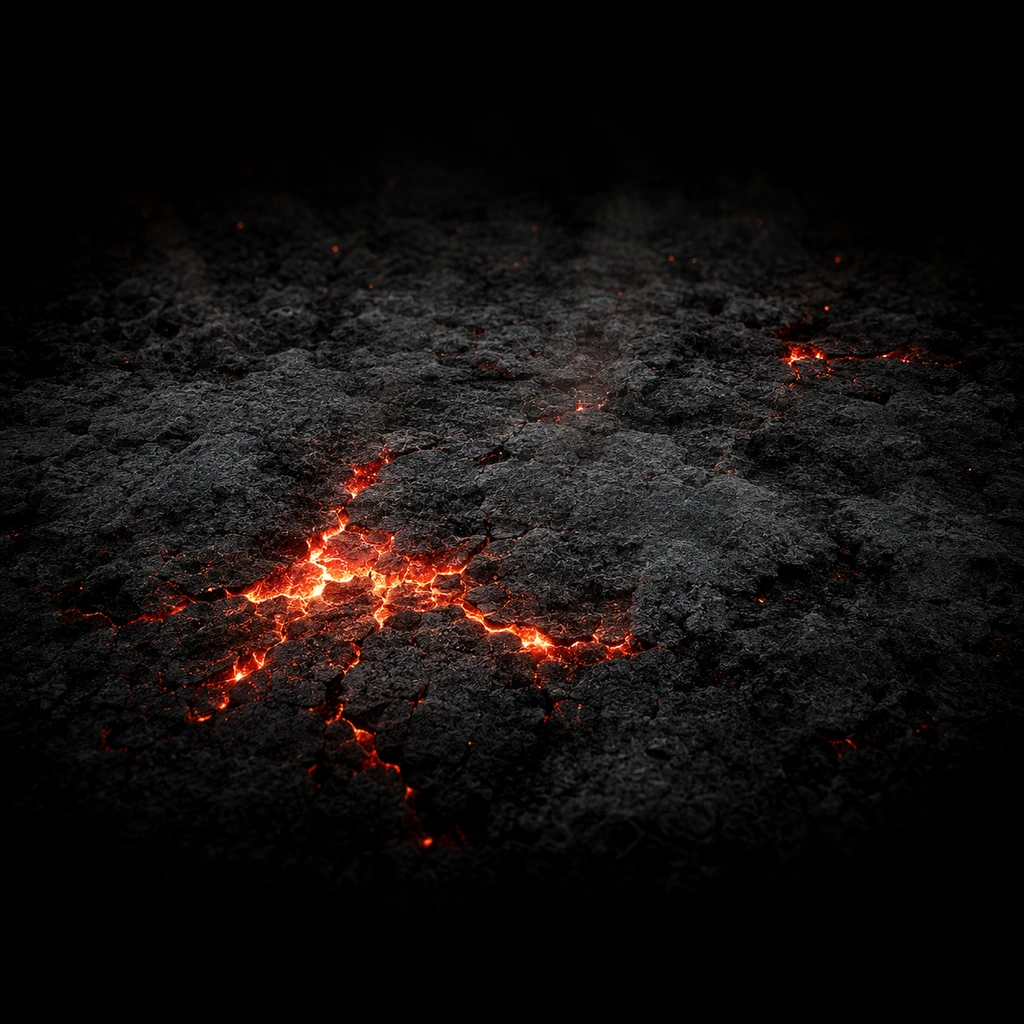
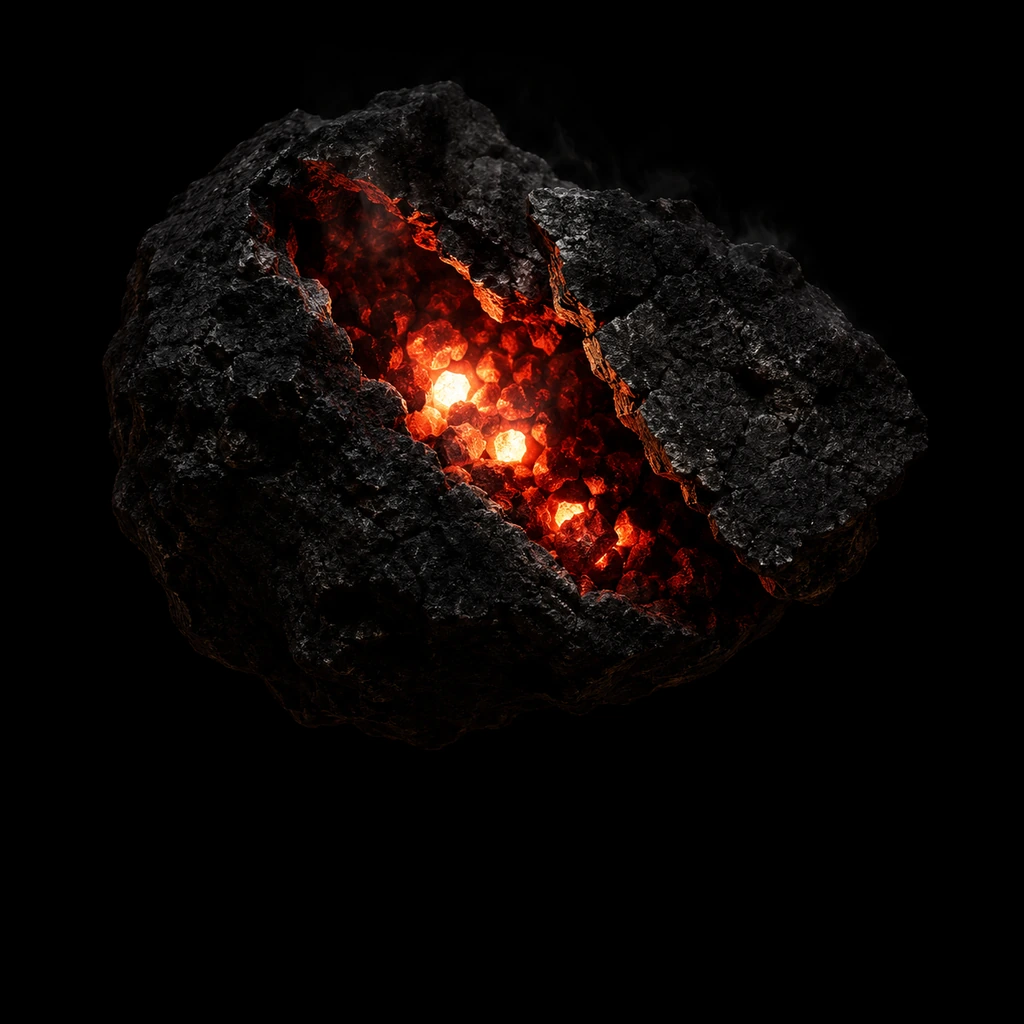
Glutbett nach drei Anlaeufen (7 von 21)
Aufgebrochener Brocken mit Kohlen im diagonalen Spalt: 20,7 % Leuchtflaeche
statt 42,3, Streuung 2,10 statt 1,23 — halb so viel Licht, aber mit Form.

Alle drei Anlaeufe stehen im README, weil jeder eine eigene Lehre traegt:
Kruste ueber das ganze Bild war eine Textur; die einzelne Ascheplatte loeste das
und wurde eine graue Scheibe (der Skill ist passiv — das Bild muss Bewahrung
zeigen, nicht ein Bett); die Geode war inhaltlich richtig, las sich aber
anatomisch, und das Gegenmittel war Asymmetrie statt eines neuen Motivs.

Dazu eine Werkzeug-Lehre: das Messkript greift "die neueste Datei" und misst
damit still das VORHERIGE Bild, wenn ein Upload nicht durchkommt. Einmal
passiert, aufgefallen nur an identischen Nachkommastellen — jetzt laeuft eine
Gegenprobe mit.

Claude-Session: https://claude.ai/code/session_01JczgaueG64JcvMWfpByxWQ

diff --git a/docs/art/skills/README.md b/docs/art/skills/README.md
@@ -156,7 +156,7 @@ gleich großen Rundformen bauen**; Wiederholung muss in Größe, Abstand oder Ri
 trennt heute nur der Splitterkranz — wenn eine der beiden im Angebot neben der anderen steht und man
 stutzt, ist `13` die, die eckiger werden muss.
 
-## Stand Feuer (6 von 21, Sammlung läuft)
+## Stand Feuer (7 von 21, Sammlung läuft)
 
 Silhouetten-Matrix und Messwerte; Zielbild ist die Blitz-Referenz (Leuchtfläche ~11 %, Streuung > 1,7).
 
@@ -165,11 +165,11 @@ Silhouetten-Matrix und Messwerte; Zielbild ist die Blitz-Referenz (Leuchtfläche
 | Glut | `SK_FIRE_01` | Glutbett, das aufatmet | flaches Band unten | 28,1 % | 1,39 |
 | Zunder | `SK_FIRE_02` | Funkenschlag an dunklem Stein | Funkenfächer | 18,5 % | 2,33 |
 | Feuersturm | `SK_FIRE_03` | gedrehte Feuersäule mit weißem Kern | Wirbel | 20,3 % | 2,34 |
-| Glutbett | `SK_FIRE_04` | Glut unter Ascheschicht | Kruste (zu flächig, s. u.) | 42,3 % | 1,23 |
+| Glutbett | `SK_FIRE_04` | aufgebrochener Brocken, Kohlen im Spalt | Brocken mit Diagonalspalt | 20,7 % | 2,10 |
 | Rückzündung | `SK_FIRE_05` | Stichflamme aus sterbender Glut | senkrechter Strahl | 10,0 % | 3,37 |
 | Glühende Klinge | `SK_FIRE_06` | glühend geschmiedete Klinge | Klinge, diagonal | 25,0 % | 2,19 |
 
-Offen: `04` Glutbett (Neuversuch, s. u.) · `07`–`17` · `L01`–`L04`.
+Offen: `07`–`17` · `L01`–`L04`.
 
 **Zwei Lehren aus dieser Runde:**
 
@@ -181,8 +181,23 @@ Offen: `04` Glutbett (Neuversuch, s. u.) · `07`–`17` · `L01`–`L04`.
   unspektakulär; die Mechanik sagt „jeder Sieg zündet zuverlässig" — daraus wurde der Funkenschlag am Stein,
   und der trägt. Bei jedem weiteren Skill zuerst die Wirkung lesen, dann das Bild suchen.
 
-**Fläche schlägt keine Silhouette.** `01` Glut und `04` Glutbett sind Texturen statt Formen (Streuung 1,39
-bzw. 1,23 — die niedrigsten Werte des ganzen Projekts). Bei 277 px Kachelbreite bleibt davon „dunkle Fläche
-mit etwas Rot". Das ist der eine Fall, den der Helligkeits-Angleich NICHT rettet: fehlende Form lässt sich
-nicht wegskalieren. `04` wird deshalb neu gemacht (eine einzelne gekippte Ascheplatte mit einem hellen Riss,
-drumherum Schwarz), `01` bleibt — sein Band unten ist als Form erkennbar.
+**Fläche schlägt keine Silhouette.** Das ist der eine Fall, den der Helligkeits-Angleich NICHT rettet:
+fehlende Form lässt sich nicht wegskalieren. `01` Glut bleibt trotz 28 % — sein Band unten ist als Form
+erkennbar. `04` Glutbett brauchte **drei Anläufe**, und alle drei sind lehrreich:
+
+1. **Kruste über das ganze Bild** — 42,3 % Leuchtfläche, Streuung 1,23 (niedrigster Wert des Projekts).
+   Eine Textur, keine Form.
+2. **Einzelne gekippte Ascheplatte, frei im Schwarz** — löste die Textur, erzeugte aber eine graue Scheibe.
+   Der Skill ist mechanisch PASSIV (Niederlagen kosten weniger Hitze); ein flacher Gegenstand macht das nur
+   sichtbar. Das Bild muss nicht „ein Bett" zeigen, sondern **Bewahrung**.
+3. **Geode im Querschnitt** — inhaltlich richtig, aber senkrechte Mandelform + konzentrische Falten + exakt
+   mittige Lage lasen sich unmissverständlich anatomisch. Gegenmittel war nicht ein anderes Motiv, sondern
+   **Asymmetrie**: diagonaler, außermittiger Bruch, gezackte Kanten statt Oval, und ein verschobenes
+   Krustenstück, das die Öffnung an einer Seite überlappt.
+
+Endstand: 20,7 % Fläche, Streuung 2,10 — halb so viel Licht wie Versuch 1, aber mit Form.
+
+**Werkzeug-Lehre am Rande:** beim Messen greift das Skript „die neueste Datei". Kommt ein Upload nicht durch,
+misst es damit still das VORHERIGE Bild und speichert es unter dem neuen Namen — einmal passiert und nur
+aufgefallen, weil die Zahlen auf drei Nachkommastellen mit dem Vorgänger übereinstimmten. Seitdem läuft eine
+Gegenprobe gegen den zuletzt gemessenen Wert mit.
